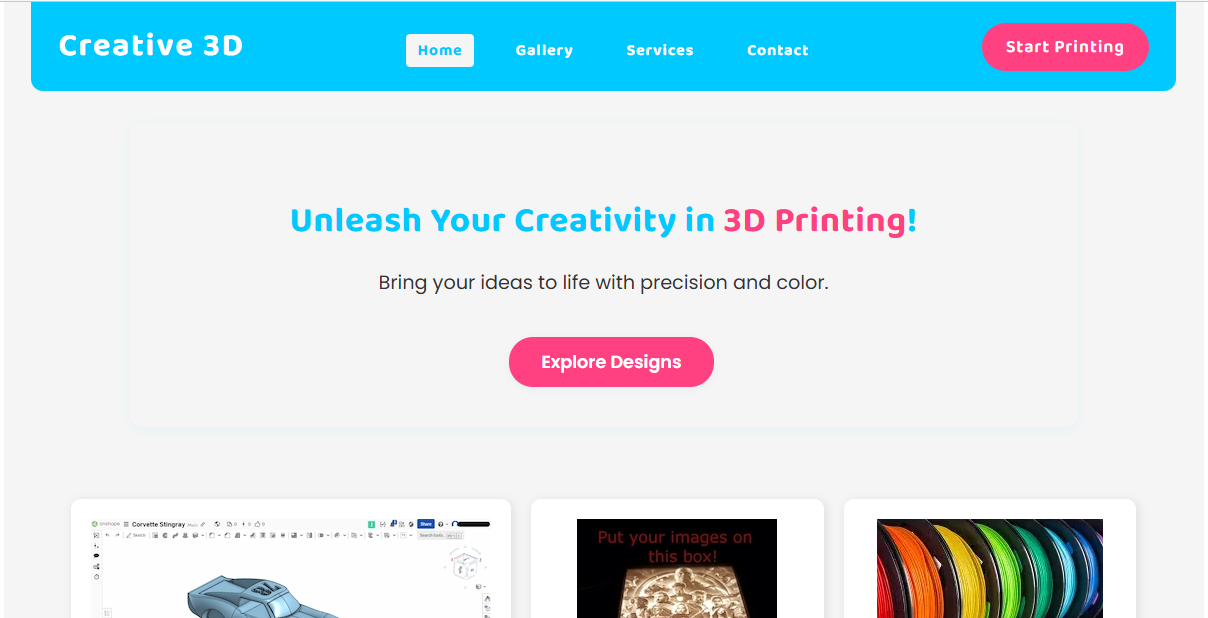
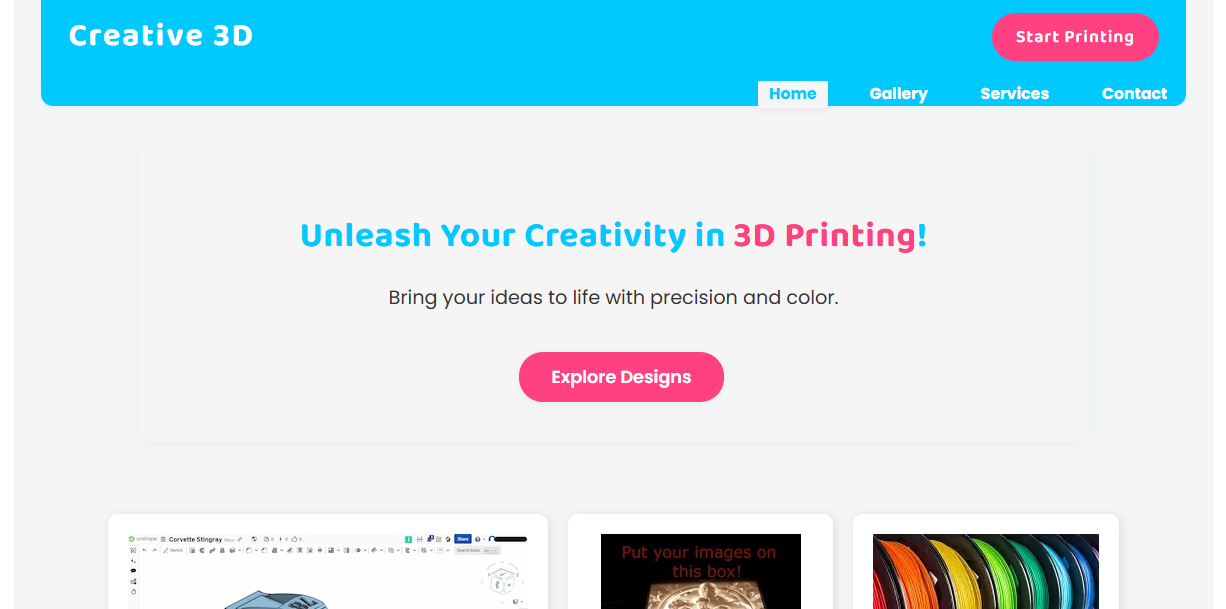
fixed h1's for each page

diff --git a/project/gallery.html b/project/gallery.html
@@ -12,7 +12,7 @@
     <meta property="og:title" content="Creative 3D Printing | Custom Designs & Rapid Prototyping">
     <meta property="og:description"
         content="Creative 3D offers custom 3D printing services, rapid prototyping, and unique creations. Start your next project with us and bring your ideas to life!">
-    <meta property="og:image" content="images/home-page-screenshot.png">
+    <meta property="og:image" content="https://jacobsimper7.github.io/wdd231/project/images/home-page-screenshot.png">
     <meta property="og:url" content="https://jacobsimper7.github.io/wdd231/project/gallery.html">
 
     <link rel="stylesheet" href="styles/large.css">
@@ -48,11 +48,10 @@
     </nav>
 
     <main>
+        <h1>Discover Stunning 3D Prints In Our Gallery</h1>
+        <p>Explore our latest designs and creations!</p>
         <!-- Gallery Section -->
         <section class="gallery">
-            <h1>Discover Stunning 3D Prints</h1>
-            <p>Explore our latest designs and creations!</p>
-
             <div class="gallery-filters">
                 <button type="button" data-filter="all" class="active">All</button>
                 <button type="button" data-filter="fidget">Fidgets</button>

diff --git a/project/services.html b/project/services.html
@@ -12,7 +12,7 @@
     <meta property="og:title" content="Creative 3D Printing | Custom Designs & Rapid Prototyping">
     <meta property="og:description"
         content="Creative 3D offers custom 3D printing services, rapid prototyping, and unique creations. Start your next project with us and bring your ideas to life!">
-    <meta property="og:image" content="images/home-page-screenshot.png">
+    <meta property="og:image" content="https://jacobsimper7.github.io/wdd231/project/images/home-page-screenshot.png">
     <meta property="og:url" content="https://jacobsimper7.github.io/wdd231/project/services.html">
 
     <link rel="stylesheet" href="styles/large.css">
@@ -47,10 +47,11 @@
         </ul>
     </nav>
     <main>
+        <h1>Our 3D Printing Services</h1>
+        <p>From rapid prototyping to custom creations, we bring your ideas to life!</p>
         <!------------------------------------------Services Section --------------------------->
         <section class="services">
-            <h1>Our 3D Printing Services</h1>
-            <p>From rapid prototyping to custom creations, we bring your ideas to life!</p>
+
 
             <div class="services-grid">
                 <a href="#order-form">

diff --git a/project/index.html b/project/index.html
@@ -12,7 +12,7 @@
     <meta property="og:title" content="Creative 3D Printing | Custom Designs & Rapid Prototyping">
     <meta property="og:description"
         content="Creative 3D offers custom 3D printing services, rapid prototyping, and unique creations. Start your next project with us and bring your ideas to life!">
-    <meta property="og:image" content="images/home-page-screenshot.png">
+    <meta property="og:image" content="https://jacobsimper7.github.io/wdd231/project/images/home-page-screenshot.png">
     <meta property="og:url" content="https://jacobsimper7.github.io/wdd231/project/index.html">
 
     <link rel="stylesheet" href="styles/large.css">
@@ -45,11 +45,10 @@
         </ul>
     </nav>
     <main>
-
+        <h1>Unleash Your Creativity in <span>3D Printing</span>!</h1>
+        <p>Bring your ideas to life with precision and color.</p>
         <!-- Hero Section -->
         <section class="hero">
-            <h1>Unleash Your Creativity in <span>3D Printing</span>!</h1>
-            <p>Bring your ideas to life with precision and color.</p>
             <button id="exploreBtn" class="cta">Explore Designs</button>
         </section>
 

diff --git a/project/contact.html b/project/contact.html
@@ -12,7 +12,7 @@
   <meta property="og:title" content="Creative 3D Printing | Custom Designs & Rapid Prototyping">
   <meta property="og:description"
     content="Creative 3D offers custom 3D printing services, rapid prototyping, and unique creations. Start your next project with us and bring your ideas to life!">
-  <meta property="og:image" content="images/home-page-screenshot.png">
+  <meta property="og:image" content="https://jacobsimper7.github.io/wdd231/project/images/home-page-screenshot.png">
   <meta property="og:url" content="https://jacobsimper7.github.io/wdd231/project/contact.html">
 
   <link rel="stylesheet" href="styles/large.css">
@@ -50,10 +50,10 @@
   </nav>
 
   <main>
+    <h1>Contact Us - Let’s Bring Your Idea to Life!</h1>
+    <p>Send us a message—we’d love to create something awesome with you.</p>
     <!-- Contact Section -->
     <section class="contact">
-      <h1>Let’s Bring Your Idea to Life!</h1>
-      <p>Send us a message—we’d love to create something awesome with you.</p>
 
       <div class="contact-wrapper">
         <form class="contact-form">

diff --git a/project/styles/small.css b/project/styles/small.css
@@ -1092,3 +1092,8 @@ dialog#gallery-modal {
   width: 100%;
   font-size: 1.1rem;
 }
+
+p {
+    font-size: 1rem;
+    text-align: center;
+}
